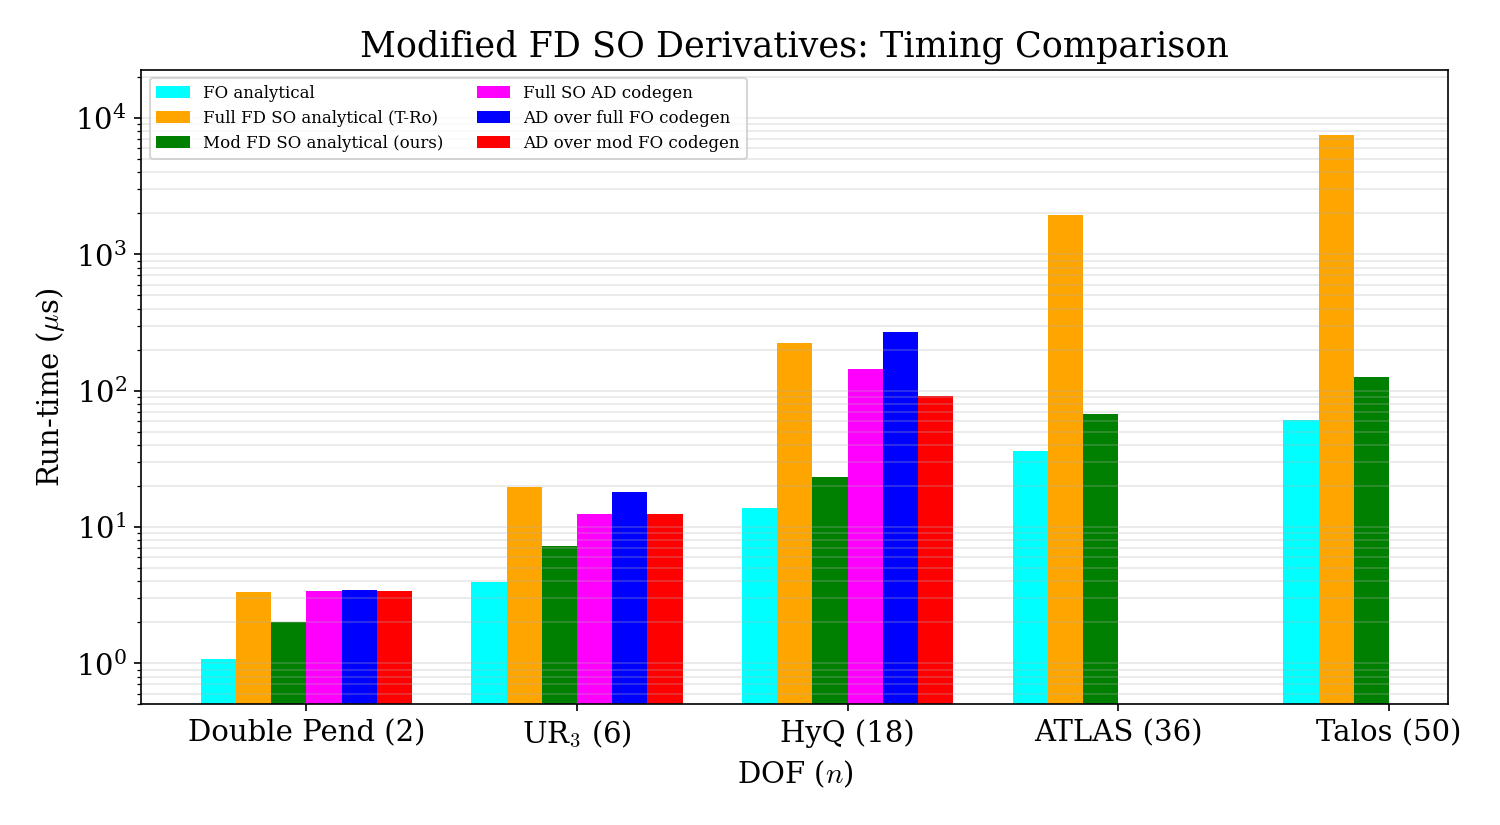
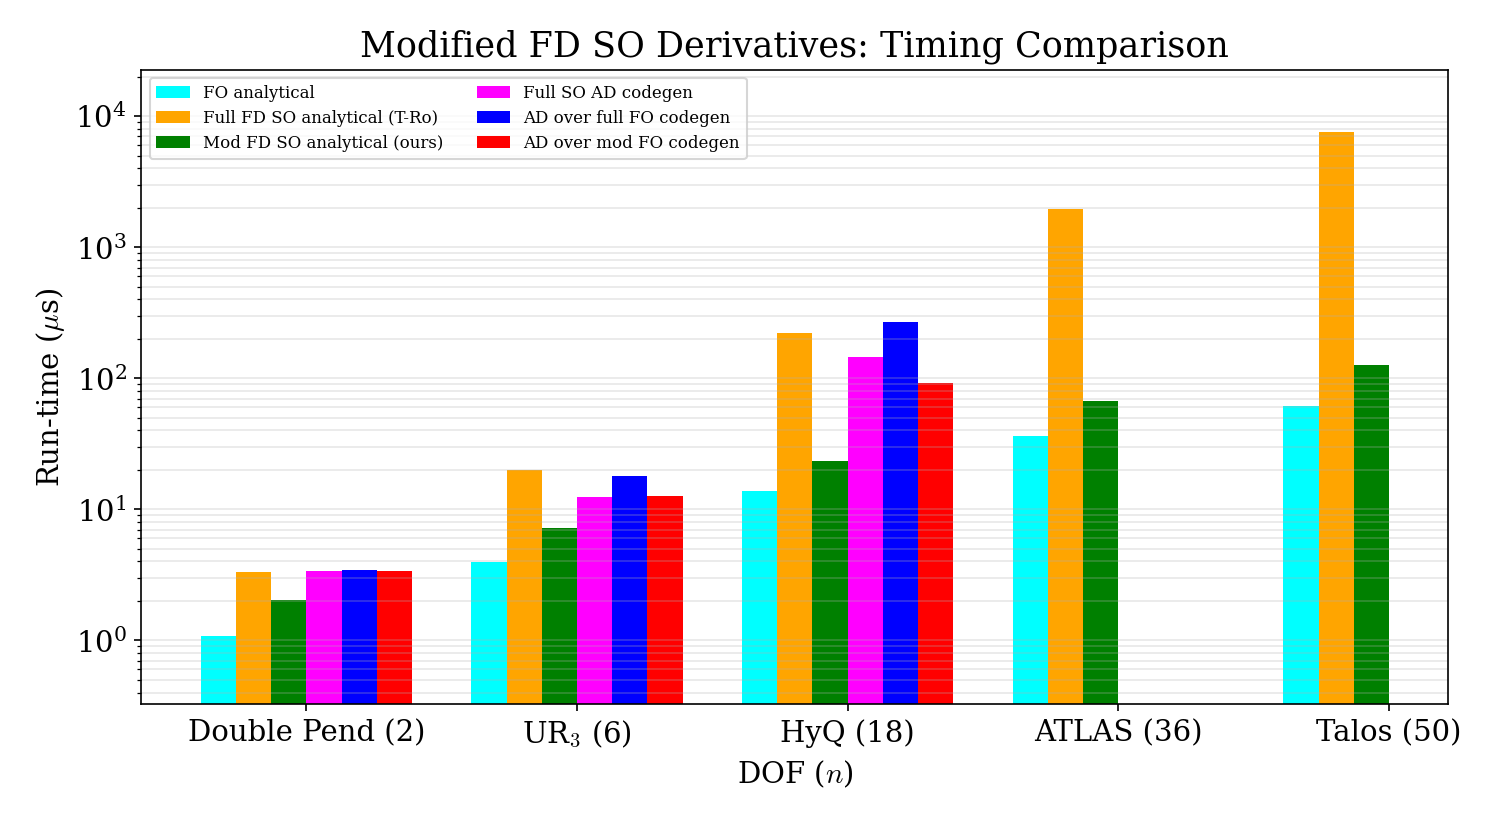
clean up benchmark figures: 4 clean PNGs (ID/FD x gcc/clang)
Remove old TRO-suffixed and unnamed figures, regenerate with
clean naming: modID_SO_timing_{gcc,clang}.png and
modFD_SO_timing_{gcc,clang}.png.

diff --git a/benchmark/plot_modSO_benchmarks.py b/benchmark/plot_modSO_benchmarks.py
@@ -110,12 +110,10 @@ def plot_benchmark(data_dir, title_prefix, output_file, ylim_max=None):
     ax.set_xticks(x)
     ax.set_xticklabels(MODEL_LABELS)
     ax.set_yscale('log')
-    if ylim_max is not None:
-        ax.set_ylim(0.5, ylim_max)
-    else:
-        all_vals = np.concatenate([fo, full_so, mod_so, case1, case2a, case2b])
-        max_val = np.nanmax(all_vals)
-        ax.set_ylim(0.5, max_val * 3)
+    all_vals = np.concatenate([fo, full_so, mod_so, case1, case2a, case2b])
+    min_val = np.nanmin(all_vals[all_vals > 0])
+    max_val = np.nanmax(all_vals)
+    ax.set_ylim(min_val * 0.3, ylim_max if ylim_max is not None else max_val * 3)
     ax.legend(fontsize=8, loc='upper left', ncol=2)
     ax.grid(True, which='both', axis='y', alpha=0.3)
 
